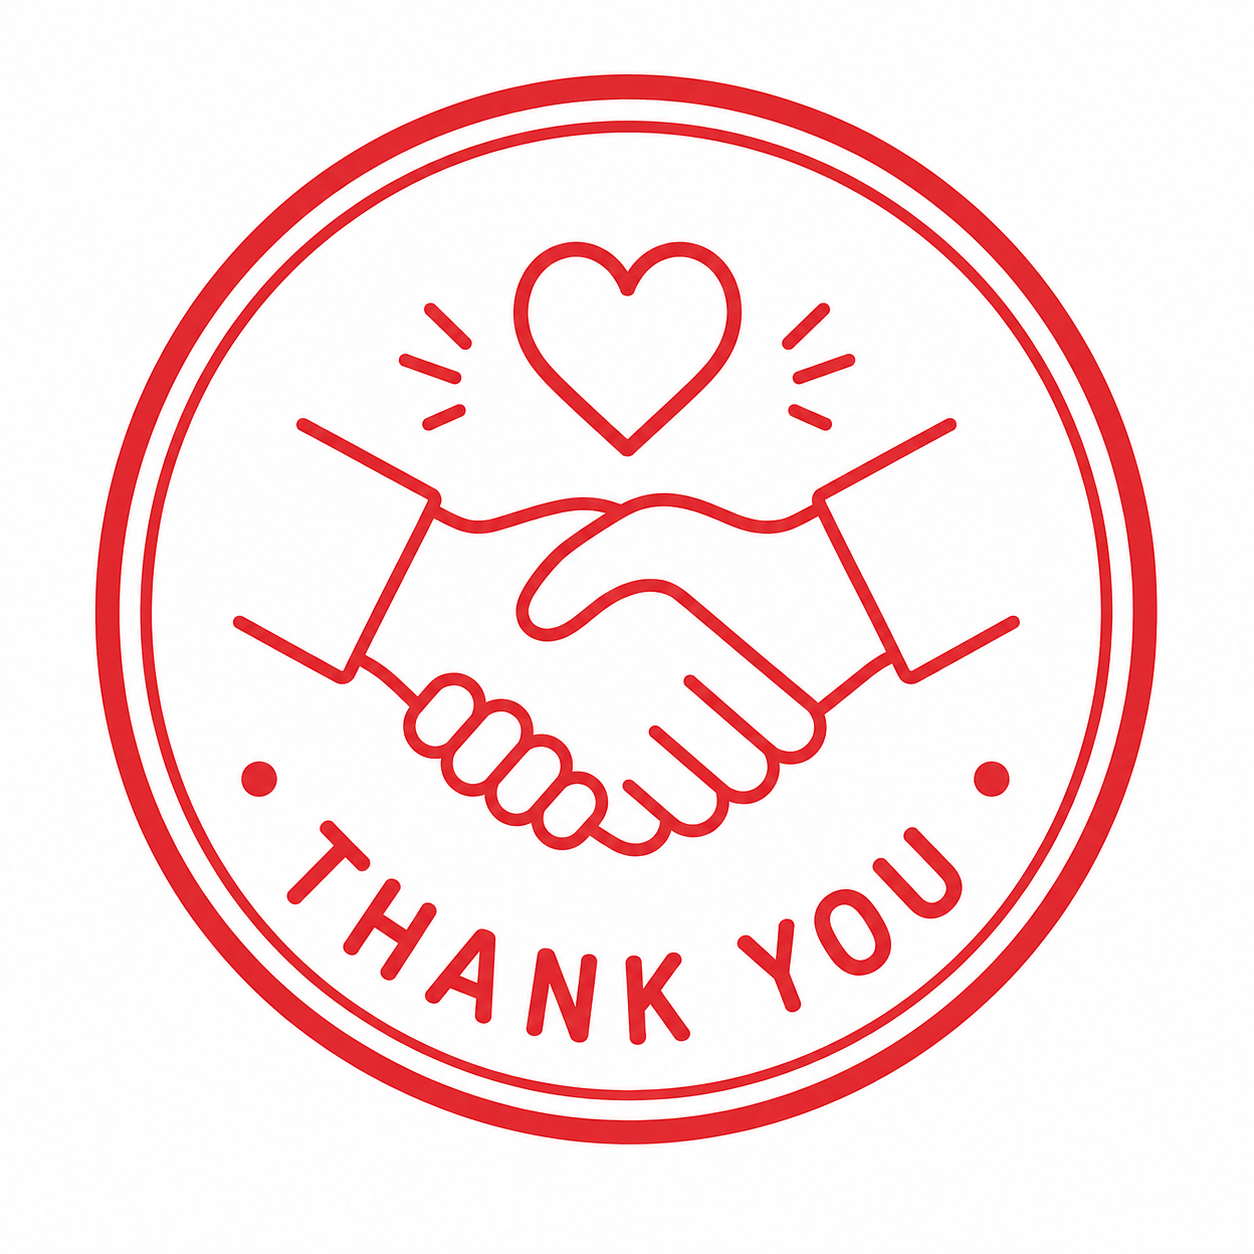
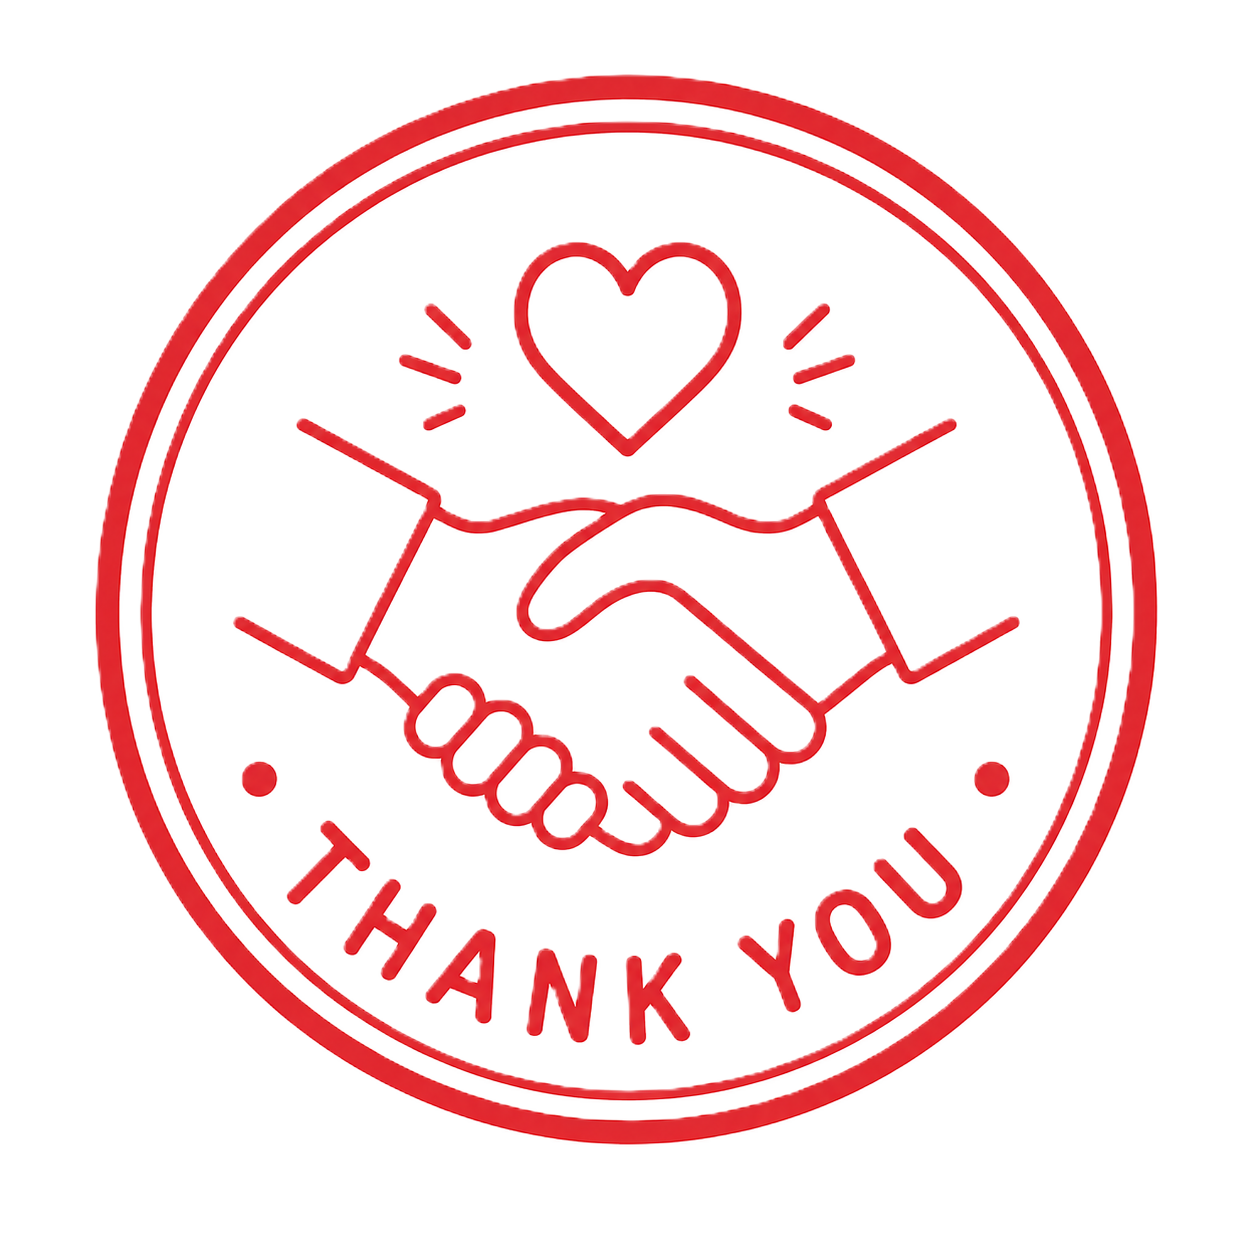
changed

diff --git a/index.html b/index.html
@@ -162,17 +162,17 @@ const stampPositions = {
 
 const countPositions = {
 
-  1:[50,260],
-  2:[250,260],
-  3:[450,260],
-  4:[650,260],
-  5:[845,260],
+  1:[80,340],
+  2:[365,340],
+  3:[650,340],
+  4:[935,340],
+  5:[1220,340],
 
-  6:[50,480],
-  7:[250,480],
-  8:[450,480],
-  9:[650,480],
-  10:[845,480]
+  6:[80,595],
+  7:[365,595],
+  8:[650,595],
+  9:[935,595],
+  10:[1220,595]
 
 };
   
@@ -526,8 +526,8 @@ async function drawCountBook(count){
       img,
       pos[0],
       pos[1],
-      185,
-      205
+      230,
+      230
     );
 
   }